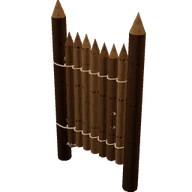
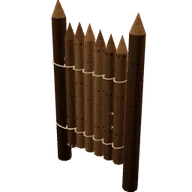
Avance: el portón con seis rollizos como los de la empalizada; la prueba busca el sitio de Usar junto al portón; textos del juego traducidos
Claude-Session: https://claude.ai/code/session_011XgxtnexieMAUugsHgvp1N

diff --git a/src/mundo/modelos.js b/src/mundo/modelos.js
@@ -299,7 +299,7 @@ const ENTERRADO = 0.5; // m de cada tronco de la empalizada bajo tierra
 function empalizada(opc = {}) {
   if (opc.porton) {
     // El portón sin hierro (P11c, provisional): 4 troncos delgados (los dos postes, clavados como los de la empalizada,
-    // y dos rajados en las varas gruesas de la hoja) y 2 cuerdas. La hoja: siete rollizos de punta afilada, dos
+    // y dos rajados en los rollizos de la hoja) y 2 cuerdas. La hoja: seis rollizos de punta afilada, dos
     // traviesas y una tornapunta por detrás, todo atado con cuerda (ni una pletina ni un clavo). Los goznes, de madera
     // y cuerda: el rollizo de la bisagra baja más y gira sobre una piedra de quicio, y arriba y abajo lo abraza al poste
     // una gaza de cuerda gruesa con un taco de madera encima que no la deja resbalar. Se tira de un asidero de vara.
@@ -311,15 +311,15 @@ function empalizada(opc = {}) {
     }
     const xg = -MODULO / 2; // el poste de los goznes
     for (const y of [0.55, 2.15]) F.add(cajaR(0.14, 0.09, 0.1, 0.02), 'tabla', xg + 0.2, y + 0.11, 0, null, { sinSuelo: true }); // tacos
-    F.add(new THREE.IcosahedronGeometry(1, 0), 'piedraOsc', xg + 0.29, 0.03, 0, { y: 0.4 }, { sinSuelo: true, plano: true, escala: new THREE.Vector3(0.17, 0.09, 0.15) }); // piedra de quicio
-    const H = loteMuro(), n = 7, w = 0.235, r = 0.11;
+    F.add(new THREE.IcosahedronGeometry(1, 0), 'piedraOsc', xg + 0.31, 0.03, 0, { y: 0.4 }, { sinSuelo: true, plano: true, escala: new THREE.Vector3(0.17, 0.09, 0.15) }); // piedra de quicio
+    const H = loteMuro(), n = 6, w = 0.27, r = 0.132;
     for (let t = 0; t < n; t++) {
-      const x = 0.29 + t * w, bisagra = t === 0, h = 2.55 + ruido(t * 2.3 + 7) * 0.12 + (bisagra ? 0.05 : 0);
+      const x = 0.31 + t * w, bisagra = t === 0, h = P.altoEmpalizada - 0.3 + ruido(t * 2.3 + 7) * 0.15 + (bisagra ? 0.05 : 0);
       const pie = bisagra ? 0.02 : 0.08; // el de la bisagra baja hasta la piedra de quicio
       H.add(cil(r * 0.93, r, h - pie, 8), ruido(t * 2.7 + 4) > 0.5 ? 'tabla' : 'madera', x, pie + (h - pie) / 2, 0, { y: ruido(t) * 3 });
-      H.add(new THREE.ConeGeometry(r * 0.93, 0.3, 8), ruido(t * 3.9) > 0.5 ? 'tabla' : 'madera', x, h + 0.15, 0, null, { sinSuelo: true, plano: true });
+      H.add(new THREE.ConeGeometry(r * 0.93, 0.36, 8), ruido(t * 3.9) > 0.5 ? 'tabla' : 'madera', x, h + 0.18, 0, null, { sinSuelo: true, plano: true });
     }
-    const x0 = 0.29, x1 = 0.29 + (n - 1) * w, ancho = x1 - x0 + 0.2, xm = (x0 + x1) / 2;
+    const x0 = 0.31, x1 = 0.31 + (n - 1) * w, ancho = x1 - x0 + 0.2, xm = (x0 + x1) / 2;
     // dos traviesas de vara gruesa por detrás, atadas a cada rollizo
     for (const y of [0.55, 2.15]) {
       varaX(H, ancho, 0.055, 'maderaOsc', xm, y, -r - 0.05, y > 1 ? 0.005 : -0.005);
@@ -329,7 +329,7 @@ function empalizada(opc = {}) {
     const dx = x1 - x0 - 0.1, dy = 2.15 - 0.55 - 0.18, l = Math.hypot(dx, dy);
     H.add(cil(0.05, 0.055, l, 7), 'madera', x0 + 0.05 + dx / 2, 0.64 + dy / 2, -r - 0.11, { z: Math.atan2(dy, dx) - Math.PI / 2 });
     // las gazas de los goznes: abrazan el rollizo de la bisagra y el poste
-    for (const y of [0.55, 2.15]) H.add(new THREE.TorusGeometry(0.3, 0.024, 5, 14), CUERDA, 0.13, y, 0, { x: Math.PI / 2 }, { sinSuelo: true, escala: new THREE.Vector3(1, 0.66, 1) });
+    for (const y of [0.55, 2.15]) H.add(new THREE.TorusGeometry(0.32, 0.024, 5, 14), CUERDA, 0.14, y, 0, { x: Math.PI / 2 }, { sinSuelo: true, escala: new THREE.Vector3(1, 0.66, 1) });
     // asidero: una vara corta atada por delante, cerca del borde que se abre
     H.add(cil(0.028, 0.03, 0.42, 6), 'maderaOsc', x1 - 0.12, 1.2, r + 0.06);
     for (const y of [1.03, 1.37]) H.add(new THREE.TorusGeometry(0.045, 0.011, 4, 8), CUERDA, x1 - 0.12, y, r + 0.03, { x: Math.PI / 2 }, { sinSuelo: true });

diff --git a/pruebas/prueba_construir_menu_navegador.py b/pruebas/prueba_construir_menu_navegador.py
@@ -125,20 +125,27 @@ with sync_playwright() as p:
         for i, (px, pz, giro, pitch, dist) in enumerate(vistas):
             ev(f"(() => {{ const k = {K}; Object.assign(k.pj, {{ x: {px}, z: {pz}, rot: 0 }}); k.cam.yaw = {giro}; k.cam.pitch = {pitch}; k.cam.dist = {dist}; }})()")
             pg.wait_for_timeout(2500)
-            pg.screenshot(path=f'{SALIDA}/{nombre}_7_porton_{i + 1}.png')
+            pg.screenshot(path=f'{SALIDA}/{nombre}_7_porton_{i + 1}.png'.replace('ó', 'o'))
         if pt:
-            # como el jugador: a su lado, Usar (la acción a la vista, con su autor) y solo se rehace esa hoja
+            # como el jugador: a su lado (donde la acción a la vista es abrir el portón), Usar, con su autor; solo se rehace esa hoja
             abierta = f"{K}.mundo.construcciones.find(c => c.id === {pt['c']!r}).piezas.get({pt['k']!r}).abierta === true"
-            ev(f"(() => {{ const k = {K}; Object.assign(k.pj, {{ x: 1.0, z: 2.9, rot: Math.PI }}); }})()"); pg.wait_for_timeout(600)
-            vista = ev(f"{K}.accionVista && {K}.accionVista.texto")
+            sitio, vista = None, None
+            for zz in [2.9, 1.1, 3.4, 0.6]:
+                for xx in [1.0, 0.0, 2.0, -1.0, 3.0]:
+                    ev(f"Object.assign({K}.pj, {{ x: {xx}, z: {zz} }})"); pg.wait_for_timeout(500)
+                    vista = ev(f"{K}.accionVista && {K}.accionVista.texto")
+                    if vista and 'empalizada' in vista: sitio = (xx, zz); break
+                if sitio: break
+            comprobar('a su lado, la acción a la vista es abrir el portón', bool(sitio), str(vista))
+            if sitio: ev(f"Object.assign({K}.pj, {{ x: {sitio[0]}, z: {sitio[1]} }})"); pg.wait_for_timeout(300)
             ev(f"{K}.usar()"); pg.wait_for_timeout(500)
             comprobar('el portón se abre con Usar', ev(abierta), str(vista))
             ev(f"(() => {{ const k = {K}; Object.assign(k.pj, {{ x: 3.4, z: 5.2, rot: 0 }}); k.cam.yaw = 0.5; k.cam.pitch = 0.2; k.cam.dist = 5.5; }})()")
             pg.wait_for_timeout(2500)
-            pg.screenshot(path=f'{SALIDA}/{nombre}_7_porton_abierto.png')
-            ev(f"(() => {{ const k = {K}; Object.assign(k.pj, {{ x: 1.0, z: 2.9, rot: Math.PI }}); }})()"); pg.wait_for_timeout(600)
+            pg.screenshot(path=f'{SALIDA}/{nombre}_7_porton_abierto.png'.replace('ó', 'o'))
+            if sitio: ev(f"Object.assign({K}.pj, {{ x: {sitio[0]}, z: {sitio[1]} }})"); pg.wait_for_timeout(600)
             ev(f"{K}.usar()"); pg.wait_for_timeout(500)
-            comprobar('y se vuelve a cerrar', not ev(abierta))
+            comprobar('y se vuelve a cerrar', bool(sitio) and not ev(abierta))
         ev(f"{K}.cambiarModo('construir')"); pg.wait_for_timeout(800)
         pg.click('#pestanas button[data-cat="almacenajes"]'); pg.wait_for_timeout(2500)
         pg.screenshot(path=f'{SALIDA}/{nombre}_5_almacenajes.png'.replace('ó', 'o'))
